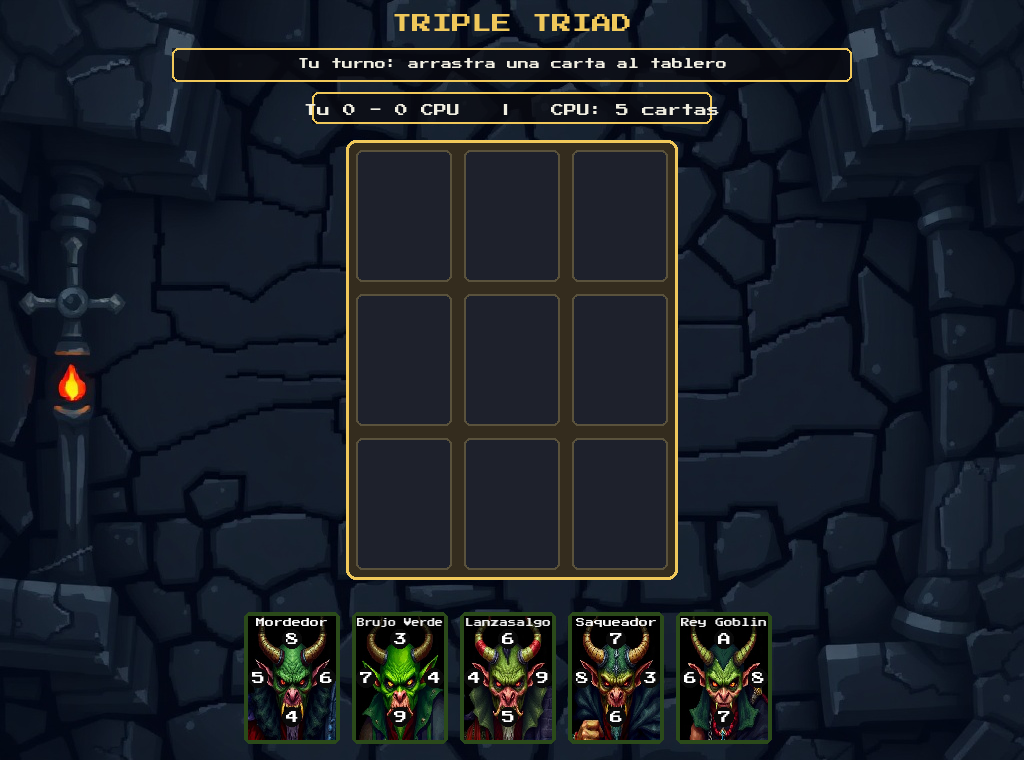
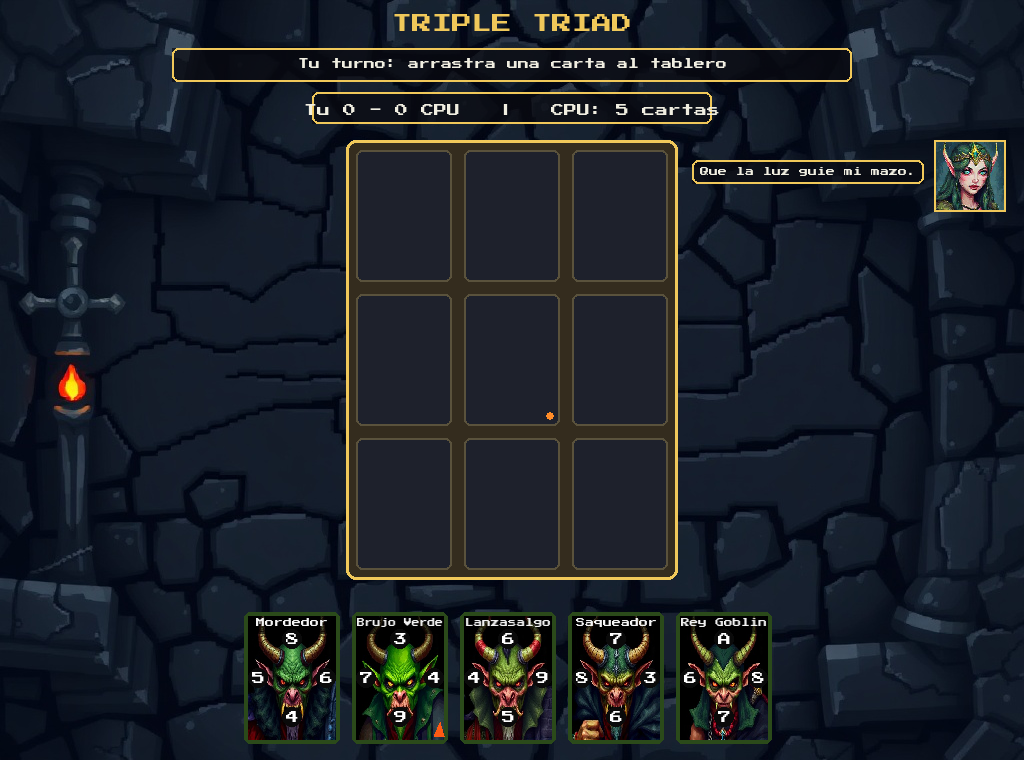
Reglas Same/Plus/Elemental, habilidad quema, casilla central de fuego, draft post-victoria, IA dragón más agresiva

Changed region(s): [[0.6562, 0.1816, 1.0, 0.3026], [0.4062, 0.9382, 0.4375, 0.9684]]

diff --git a/TripleTriad/main.py b/TripleTriad/main.py
@@ -155,6 +155,10 @@ def crear_superficie_carta(carta):
         img = f_big.render(letra, True, (245, 245, 245))
         s.blit(img, (CARD_W // 2 - img.get_width() // 2, CARD_H // 2 - img.get_height() // 2))
 
+    if carta.habilidad == "quema":
+        # indicador de habilidad: llama roja en la esquina
+        pygame.draw.polygon(s, (255, 90, 20), [(CARD_W - 14, CARD_H - 8), (CARD_W - 8, CARD_H - 22), (CARD_W - 4, CARD_H - 8)])
+
     v = carta.valores
     for texto, pos in [
         (val(v["N"]), (CARD_W // 2, 27)),
@@ -193,6 +197,8 @@ def jugada_cpu(board, mano):
     for i, carta in enumerate(mano):
         for r, c in celdas_vacias(board):
             puntos = simular(board, carta, r, c, CPU)
+            if carta.bando == "dragon" and (r, c) == (1, 1):
+                puntos += 2  # los dragones ambicionan la casilla central
             if puntos > mejor_puntos:
                 mejor_puntos, mejor = puntos, (i, r, c)
     return mejor
@@ -359,6 +365,9 @@ class Juego:
                         screen.blit(self.sup(carta), rect.topleft)
                     borde = AZUL_BORDE if carta.dueno == USUARIO else ROJO_BORDE
                     pygame.draw.rect(screen, borde, rect, 4, border_radius=6)
+                # casilla elemental central marcada en fuego
+                if (r, c) == (1, 1):
+                    pygame.draw.circle(screen, (255, 140, 40), (rect.right - 10, rect.bottom - 10), 4)
 
         for (r, c, t0, dueno) in self.flash:
             alpha = max(0, int(170 * (1 - (ahora - t0) / 0.7)))
@@ -583,6 +592,102 @@ def pantalla_mejora(screen, estado):
             )
 
 
+def pantalla_post_victoria(screen, estado):
+    import campana as _c
+    while True:
+        screen.blit(fondo(), (0, 0))
+        t = fuente(16).render(clean("Victoria! Elige tu recompensa"), True, DORADO)
+        screen.blit(t, (ANCHO // 2 - t.get_width() // 2, 140))
+        botones = [
+            ("MEJORAR CARTA", pygame.Rect(ANCHO // 2 - 170, 260, 340, 50)),
+            ("ROBAR CARTA", pygame.Rect(ANCHO // 2 - 170, 330, 340, 50)),
+        ]
+        mouse = pygame.mouse.get_pos()
+        for texto, rect in botones:
+            panel(screen, rect)
+            if rect.collidepoint(mouse):
+                pygame.draw.rect(screen, DORADO, rect, 4, border_radius=6)
+            img = fuente(13).render(clean(texto), True, TEXTO)
+            screen.blit(img, (rect.centerx - img.get_width() // 2, rect.centery - 8))
+        pygame.display.flip()
+        for ev in pygame.event.get():
+            if ev.type == pygame.QUIT:
+                pygame.quit()
+                sys.exit()
+            if ev.type == pygame.MOUSEBUTTONDOWN and ev.button == 1:
+                for texto, rect in botones:
+                    if rect.collidepoint(ev.pos):
+                        if "MEJORAR" in texto:
+                            pantalla_mejora(screen, estado)
+                        else:
+                            pantalla_draft(screen, estado)
+                        return
+
+
+def pantalla_draft(screen, estado):
+    import campana as _c
+    import mazos as _m
+    pool = []
+    for bando, cartas in _m.TODOS.items():
+        for c in cartas:
+            pool.append(c)
+    ofertas = random.sample(pool, 3)
+    elegida = None
+    while elegida is None:
+        screen.blit(fondo(), (0, 0))
+        t = fuente(14).render(clean("Elige una carta del pool"), True, DORADO)
+        screen.blit(t, (ANCHO // 2 - t.get_width() // 2, 90))
+        rects = []
+        n = len(ofertas)
+        for i, carta in enumerate(ofertas):
+            w, h = CARD_W, CARD_H
+            x = ANCHO // 2 - (n * (w + 16) - 16) // 2 + i * (w + 16)
+            screen.blit(crear_superficie_carta(carta), (x, 200))
+            rects.append(pygame.Rect(x, 200, w, h))
+        pygame.display.flip()
+        for ev in pygame.event.get():
+            if ev.type == pygame.QUIT:
+                pygame.quit()
+                sys.exit()
+            if ev.type == pygame.MOUSEBUTTONDOWN and ev.button == 1:
+                for i, rect in enumerate(rects):
+                    if rect.collidepoint(ev.pos):
+                        elegida = ofertas[i]
+    # elegir cuál reemplazar
+    while True:
+        screen.blit(fondo(), (0, 0))
+        t = fuente(14).render(clean(f"{elegida.nombre}! Que carta reemplaza?"), True, DORADO)
+        screen.blit(t, (ANCHO // 2 - t.get_width() // 2, 90))
+        cartas = _c.cartas_jugador(estado)
+        rects = []
+        n = len(cartas)
+        for i, carta in enumerate(cartas):
+            w, h = CARD_W, CARD_H
+            x = ANCHO // 2 - (n * (w + 12) - 12) // 2 + i * (w + 12)
+            screen.blit(crear_superficie_carta(carta), (x, 220))
+            rects.append(pygame.Rect(x, 220, w, h))
+        pygame.display.flip()
+        for ev in pygame.event.get():
+            if ev.type == pygame.QUIT:
+                pygame.quit()
+                sys.exit()
+            if ev.type == pygame.MOUSEBUTTONDOWN and ev.button == 1:
+                for i, rect in enumerate(rects):
+                    if rect.collidepoint(ev.pos):
+                        estado["cartas"][i] = {
+                            "nombre": elegida.nombre,
+                            "n": elegida.valores["N"],
+                            "s": elegida.valores["S"],
+                            "e": elegida.valores["E"],
+                            "o": elegida.valores["O"],
+                            "bando": elegida.bando,
+                            "habilidad": elegida.habilidad,
+                        }
+                        _c.guardar(estado)
+                        esperar_click(screen, [f"{cartas[i].nombre} fue reemplazada."], titulo="Draft")
+                        return
+
+
 def partida(screen, clock, juego):
     """Loop de juego. Devuelve True si ganaste."""
     frames = 0
@@ -679,7 +784,7 @@ def main():
                 esperar_click(screen, ["FELICIDADES! Derrotaste al Rey Dragon.", "Campana completada!"], titulo="Victoria")
             else:
                 _c.guardar(estado)
-                pantalla_mejora(screen, estado)
+                pantalla_post_victoria(screen, estado)
         else:
             salir = derrota_menu(screen)
             if salir:

diff --git a/TripleTriad/reglas.py b/TripleTriad/reglas.py
@@ -15,17 +15,60 @@ def val(n):
 
 
 class Carta:
-    def __init__(self, nombre, n, s, e, o, dueno=None, bando=None):
+    def __init__(self, nombre, n, s, e, o, dueno=None, bando=None, habilidad=None):
         self.nombre = nombre
         self.valores = {"N": n, "S": s, "E": e, "O": o}
         self.dueno = dueno
         self.bando = bando
+        self.habilidad = habilidad
 
     def lado(self, d):
         return self.valores[d]
 
     def copia(self):
         return copy.deepcopy(self)
+
+
+def valor_efectivo(carta, r, c, lado):
+    v = carta.valores[lado]
+    # Casilla elemental central: bonus +2 a dragones y hombres lobo
+    if (r, c) == (1, 1) and carta.bando in ("dragon", "hombre_lobo"):
+        v += 2
+    return v
+
+
+def flips_por_carta(board, r, c):
+    """Reglas básica + Same + Plus + habilidad quema. Devuelve set de posiciones."""
+    carta = board[r][c]
+    basico = set()
+    iguales = []
+    sumas = {}
+    for lado, (dr, dc) in DELTA.items():
+        nr, nc = r + dr, c + dc
+        if not (0 <= nr < 3 and 0 <= nc < 3):
+            continue
+        vecina = board[nr][nc]
+        if vecina is None or vecina.dueno == carta.dueno:
+            continue
+        m = valor_efectivo(carta, r, c, lado)
+        e = valor_efectivo(vecina, nr, nc, OPUESTO[lado])
+        if m > e:
+            basico.add((nr, nc))
+        if m == e:
+            iguales.append((nr, nc))
+        sumas.setdefault(m + e, []).append((nr, nc))
+    flips = set(basico)
+    if len(iguales) >= 2:  # Same
+        flips.update(iguales)
+    for grupo in sumas.values():  # Plus
+        if len(grupo) >= 2:
+            flips.update(grupo)
+    if getattr(carta, "habilidad", None) == "quema":
+        for lado, (dr, dc) in DELTA.items():
+            nr, nc = r + dr, c + dc
+            if 0 <= nr < 3 and 0 <= nc < 3 and board[nr][nc] and board[nr][nc].dueno != carta.dueno:
+                flips.add((nr, nc))
+    return flips
 
 
 def capturas(board, r, c):
@@ -37,18 +80,13 @@ def capturas(board, r, c):
     cola = [(r, c)]
     while cola:
         cr, cc = cola.pop(0)
-        carta = board[cr][cc]
-        for lado, (dr, dc) in DELTA.items():
-            nr, nc = cr + dr, cc + dc
-            if not (0 <= nr < 3 and 0 <= nc < 3):
-                continue
+        for (nr, nc) in flips_por_carta(board, cr, cc):
             vecina = board[nr][nc]
-            if vecina is None or vecina.dueno == carta.dueno:
+            if vecina is None or vecina.dueno == board[cr][cc].dueno:
                 continue
-            if carta.lado(lado) > vecina.lado(OPUESTO[lado]):
-                vecina.dueno = carta.dueno
-                capturadas.append((nr, nc))
-                cola.append((nr, nc))
+            vecina.dueno = board[cr][cc].dueno
+            capturadas.append((nr, nc))
+            cola.append((nr, nc))
     return capturadas
 
 

diff --git a/TripleTriad/tests/test_reglas.py b/TripleTriad/tests/test_reglas.py
@@ -76,5 +76,54 @@ class TestCapturas(unittest.TestCase):
         self.assertEqual(b[1][0].dueno, USUARIO)
 
 
+    def test_same(self):
+        # Same: dos vecinos enemigos con lado opuesto IGUAL al de la carta colocada
+        b = tablero_vacio()
+        b[0][0] = carta(5, 5, 5, 5, CPU)   # su E=5
+        b[0][1] = None
+        b[1][0] = carta(5, 1, 1, 1, CPU)   # su N=1... no: su N se compara con S del colocado
+        b[1][1] = carta(5, 5, 5, 5, USUARIO)
+        b[0][0].dueno = CPU
+        b[1][0] = carta(1, 5, 1, 1, CPU)   # su N=1 vs S del colocado (5) -> no
+        # Usemos: colocado USUARIO en (1,1) con N=5 y O=5
+        b[1][1] = carta(5, 1, 1, 5, USUARIO)
+        # CPU en (0,1) con S=5  => igual al N=5 del colocado
+        b[0][1] = carta(5, 5, 1, 1, CPU)
+        # CPU en (1,0) con E=5 => igual al O=5 del colocado
+        b[1][0] = carta(1, 1, 5, 1, CPU)
+        caps = capturas(b, 1, 1)
+        self.assertIn((0, 1), caps)
+        self.assertIn((1, 0), caps)
+
+    def test_plus(self):
+        # Plus: sumas iguales en dos comparaciones distintas
+        b = tablero_vacio()
+        b[1][1] = carta(5, 1, 6, 1, USUARIO)  # N=5, E=6
+        b[0][1] = carta(1, 3, 1, 1, CPU)       # S=3 -> suma 5+3=8
+        b[1][2] = carta(1, 1, 1, 2, CPU)       # O=2 -> suma 6+2=8
+        caps = capturas(b, 1, 1)
+        self.assertIn((0, 1), caps)
+        self.assertIn((1, 2), caps)
+
+    def test_quema(self):
+        b = tablero_vacio()
+        b[0][1] = carta(9, 9, 9, 9, CPU)
+        c = carta(1, 1, 1, 1, USUARIO)
+        c.habilidad = "quema"
+        b[1][1] = c
+        caps = capturas(b, 1, 1)
+        self.assertIn((0, 1), caps)
+        self.assertEqual(b[0][1].dueno, USUARIO)
+
+    def test_elemental_centro(self):
+        # Dragón en el centro tiene +2
+        b = tablero_vacio()
+        b[1][1] = Carta("Drake", 7, 7, 7, 7, bando="dragon")
+        b[1][1].dueno = USUARIO
+        b[0][1] = carta(8, 8, 8, 8, CPU)  # su S=8; Drake N efectivo=9 > 8
+        caps = capturas(b, 1, 1)
+        self.assertIn((0, 1), caps)
+
+
 if __name__ == "__main__":
     unittest.main()

diff --git a/TripleTriad/campana.py b/TripleTriad/campana.py
@@ -65,7 +65,7 @@ def nueva_campana():
         "etapa": 0,
         "mazo_jugador": "goblin",
         "cartas": [
-            {"nombre": c.nombre, "n": c.valores["N"], "s": c.valores["S"], "e": c.valores["E"], "o": c.valores["O"]}
+            {"nombre": c.nombre, "n": c.valores["N"], "s": c.valores["S"], "e": c.valores["E"], "o": c.valores["O"], "bando": c.bando, "habilidad": c.habilidad}
             for c in mazos.GOBLINS
         ],
         "completada": False,
@@ -88,7 +88,7 @@ def cargar():
 def cartas_jugador(estado):
     cartas = []
     for d in estado["cartas"]:
-        c = Carta(d["nombre"], d["n"], d["s"], d["e"], d["o"], bando=estado["mazo_jugador"])
+        c = Carta(d["nombre"], d["n"], d["s"], d["e"], d["o"], bando=d.get("bando", estado["mazo_jugador"]), habilidad=d.get("habilidad"))
         cartas.append(c)
     return cartas
 

diff --git a/TripleTriad/mazos.py b/TripleTriad/mazos.py
@@ -4,7 +4,7 @@ from reglas import Carta
 
 GOBLINS = [
     Carta("Mordedor", 8, 4, 6, 5, bando="goblin"),
-    Carta("Brujo Verde", 3, 9, 4, 7, bando="goblin"),
+    Carta("Brujo Verde", 3, 9, 4, 7, bando="goblin", habilidad="quema"),
     Carta("Lanzasalgo", 6, 5, 9, 4, bando="goblin"),
     Carta("Saqueador", 7, 6, 3, 8, bando="goblin"),
     Carta("Rey Goblin", 10, 7, 8, 6, bando="goblin"),
@@ -36,7 +36,7 @@ VAMPIROS = [
 
 DRAGONES = [
     Carta("Drake", 7, 6, 8, 5, bando="dragon"),
-    Carta("Fuego", 5, 8, 4, 9, bando="dragon"),
+    Carta("Fuego", 5, 8, 4, 9, bando="dragon", habilidad="quema"),
     Carta("Guerrero Rojo", 8, 5, 7, 6, bando="dragon"),
     Carta("Segador Alado", 6, 7, 9, 4, bando="dragon"),
     Carta("Rey Dragon", 10, 9, 8, 8, bando="dragon"),

diff --git a/TripleTriad/tests/demo_capturas.py b/TripleTriad/tests/demo_capturas.py
@@ -69,6 +69,20 @@ def main():
     poner(j, "Dama Hoja", 5, 8, 4, 9, CPU, 2, 2)
     render(j, "04_mitad_partida.png")
 
+    # 5) Same
+    j = Juego("goblin")
+    poner(j, "A", 5, 5, 1, 1, CPU, 0, 1)
+    poner(j, "B", 1, 1, 5, 1, CPU, 1, 0)
+    poner(j, "Mago", 5, 1, 1, 5, USUARIO, 1, 1, resolver=True)
+    render(j, "05_same.png")
+
+    # 6) Plus
+    j = Juego("goblin")
+    poner(j, "A", 1, 3, 1, 1, CPU, 0, 1)
+    poner(j, "B", 1, 1, 1, 2, CPU, 1, 2)
+    poner(j, "Mago", 5, 1, 6, 1, USUARIO, 1, 1, resolver=True)
+    render(j, "06_plus.png")
+
     print(f"Screenshots en {SALIDA}")
 
 
